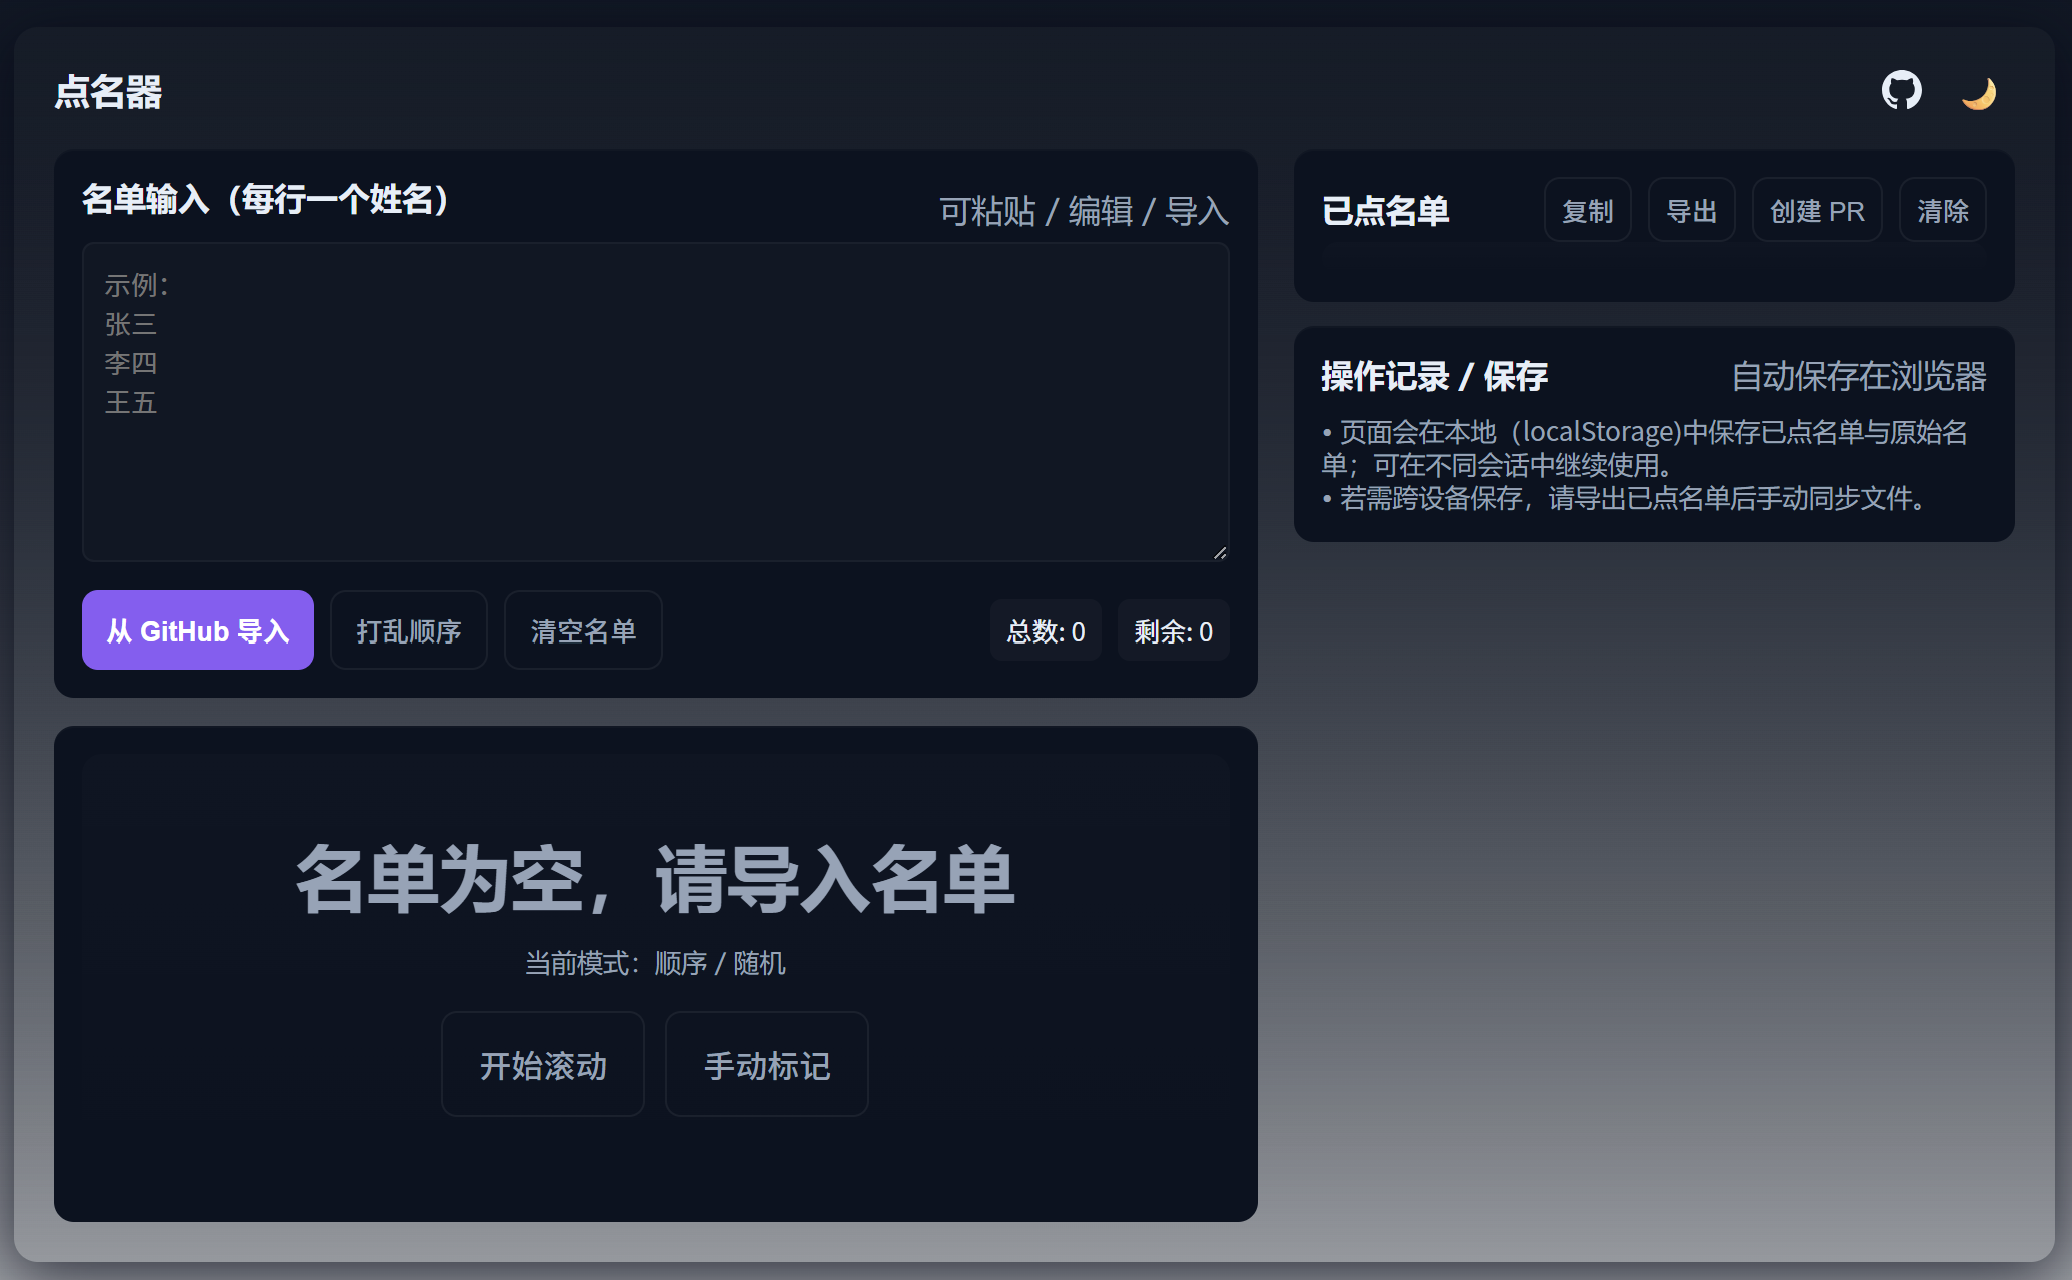
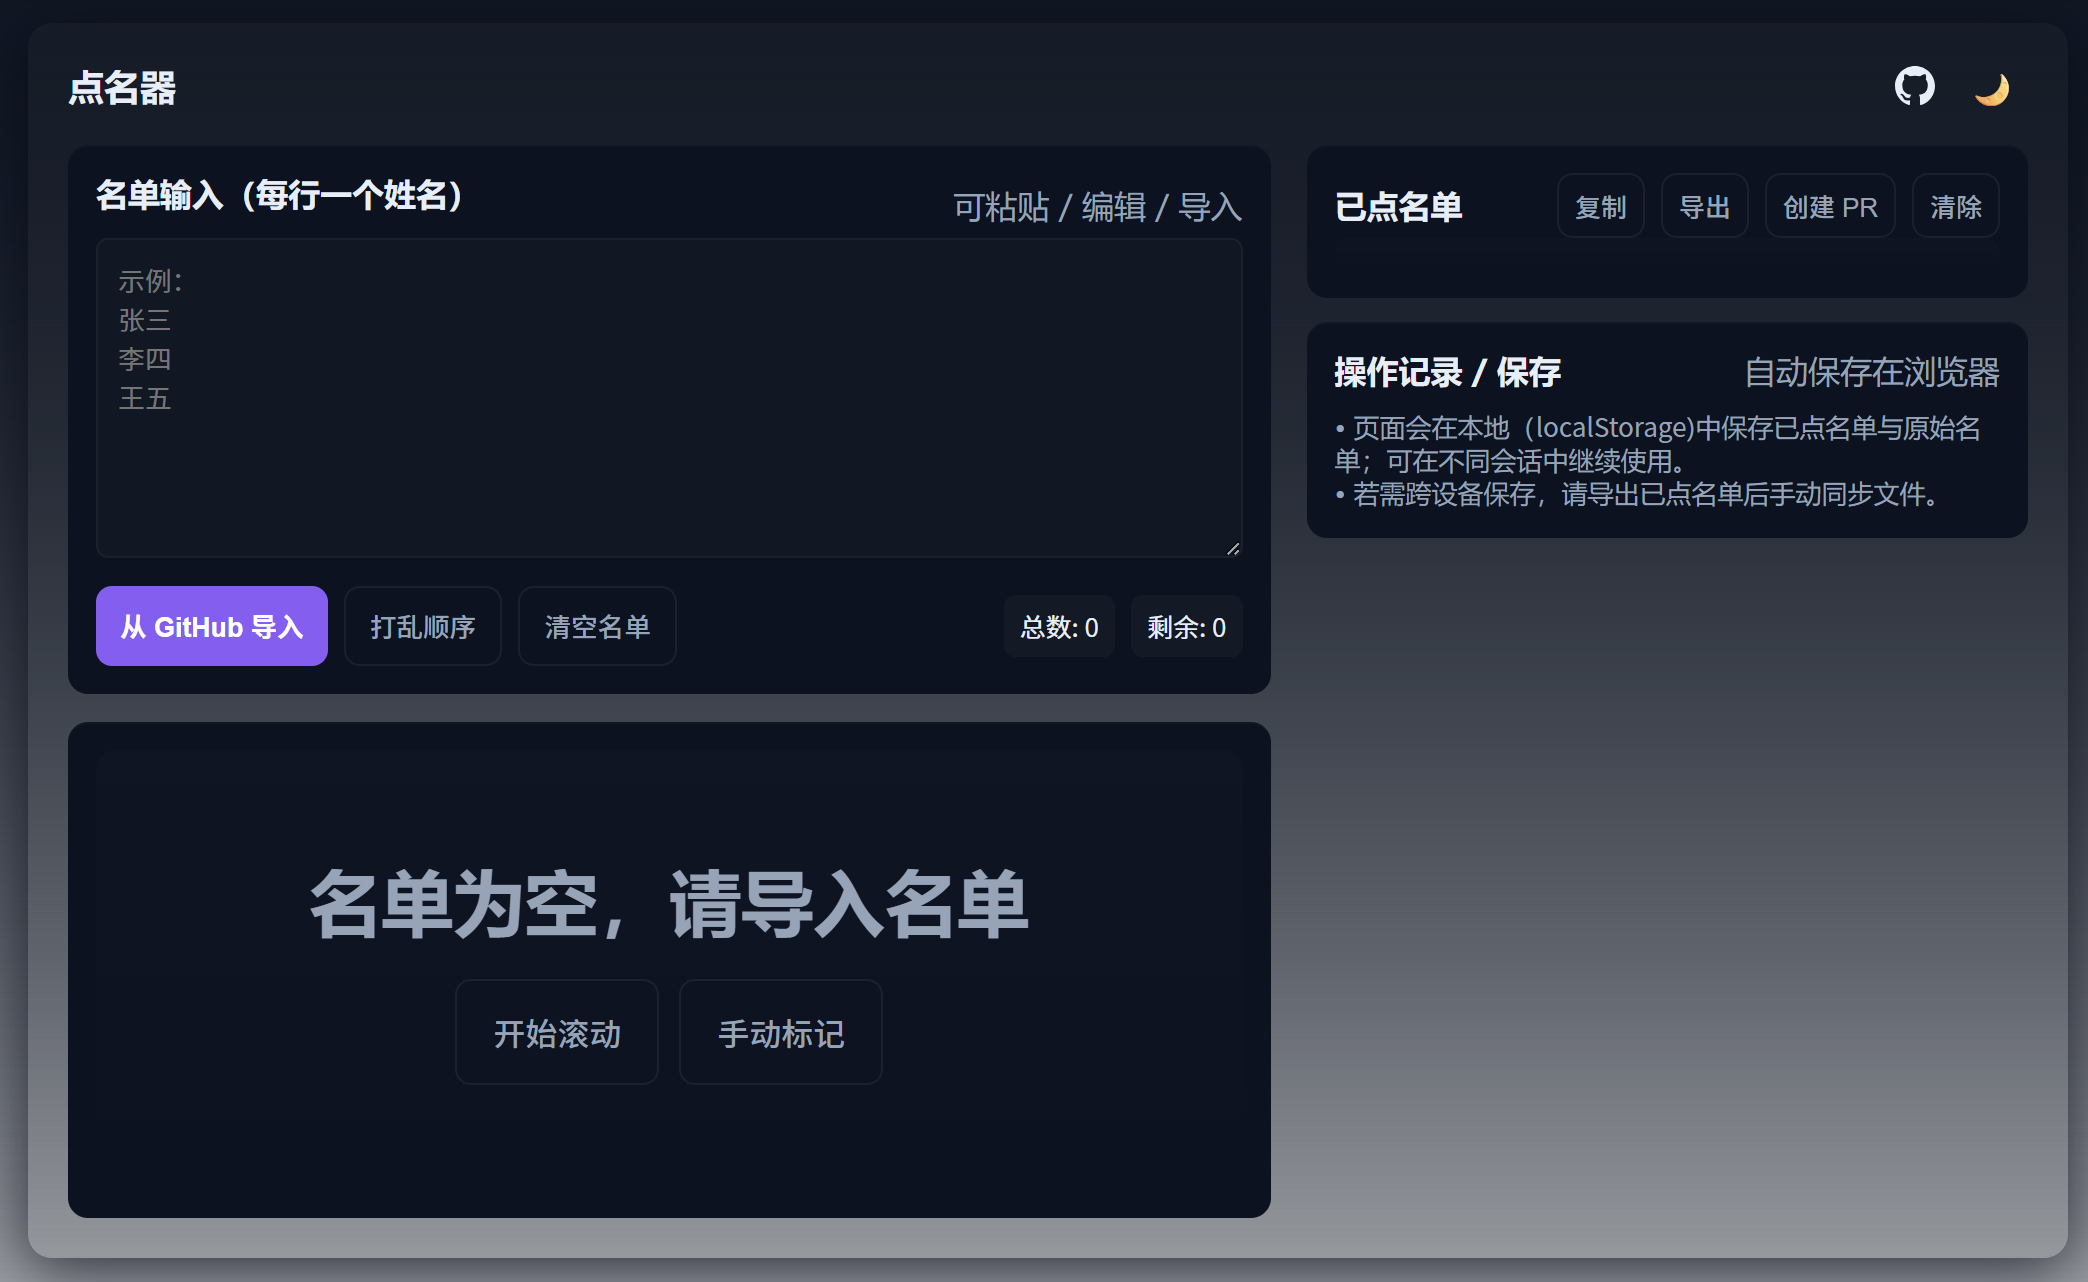
refactor: 移除未使用的随机模式相关代码
删除与随机模式相关的UI元素和逻辑代码，简化核心滚动功能。

diff --git a/script.js b/script.js
@@ -48,7 +48,6 @@ const calledListEl = document.getElementById('calledList');
 const copyCalled = document.getElementById('copyCalled');
 const exportCalled = document.getElementById('exportCalled');
 const clearCalled = document.getElementById('clearCalled');
-const modeLabel = document.getElementById('modeLabel');
 const namesInputTitle = document.getElementById('namesInputTitle');
 
 // 新增：Create PR 按钮与模态元素
@@ -89,7 +88,6 @@ let calledNames = []; // 已点名单
 let rolling = false;
 let intervalId = null;
 let lastShown = '';
-let modeRandom = true; // 默认随机
 
 // 初始化：从 localStorage 读取
 function loadFromStorage() {
@@ -261,8 +259,7 @@ toggleRollBtn.onclick = () => {
     rolling = true;
     toggleRollBtn.textContent = '停止';
     nameDisplay.classList.add('blur');
-    modeRandom = true; // 进入滚动时默认随机
-    modeLabel.textContent = '随机';
+
     // 节流函数
     function throttle(func, limit) {
       let lastFunc;

diff --git a/index.html b/index.html
@@ -52,9 +52,7 @@
         <div class="card" style="margin-top:14px">
           <div class="viewer">
             <div id="nameDisplay" class="name-display muted">点击"开始滚动"开始</div>
-            <div class="meta">
-              <div>当前模式：<span id="modeLabel">顺序 / 随机</span></div>
-            </div>
+
             <div style="margin-top:16px;display:flex;gap:10px">
               <button id="toggleRollBtn" class="big">开始滚动</button>
               <button id="markBtn" class="big ghost">手动标记</button>
